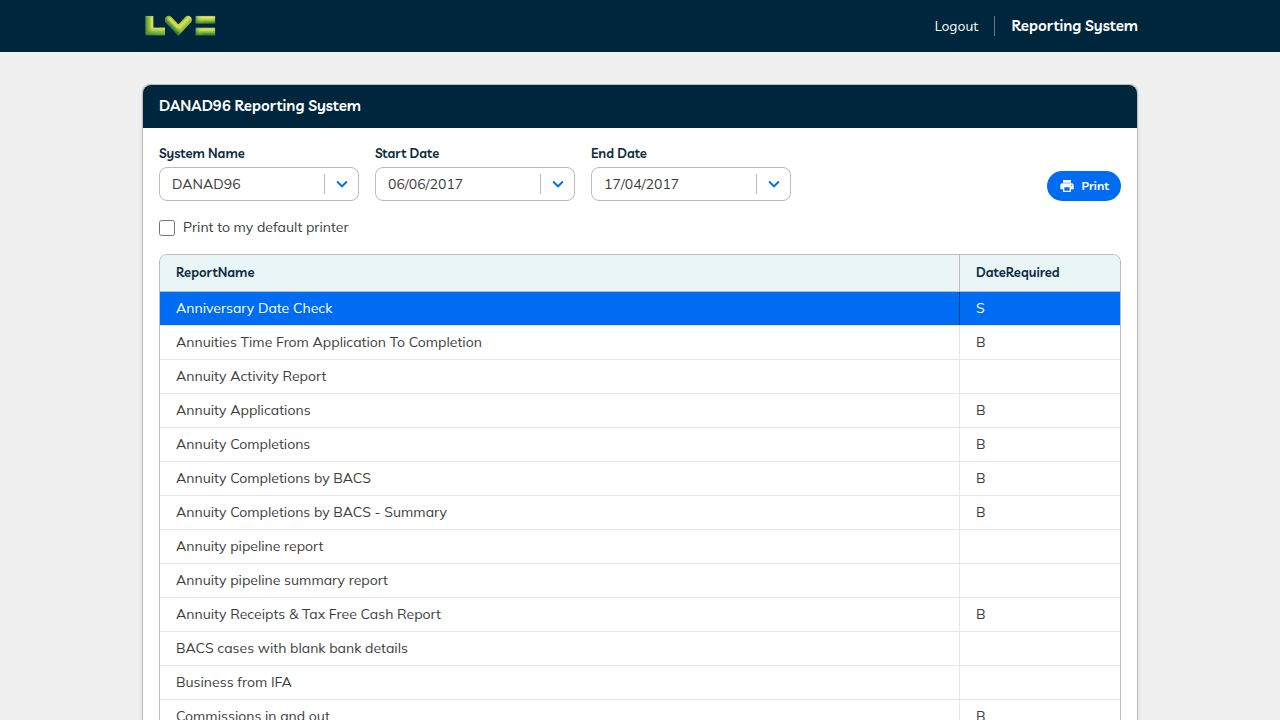
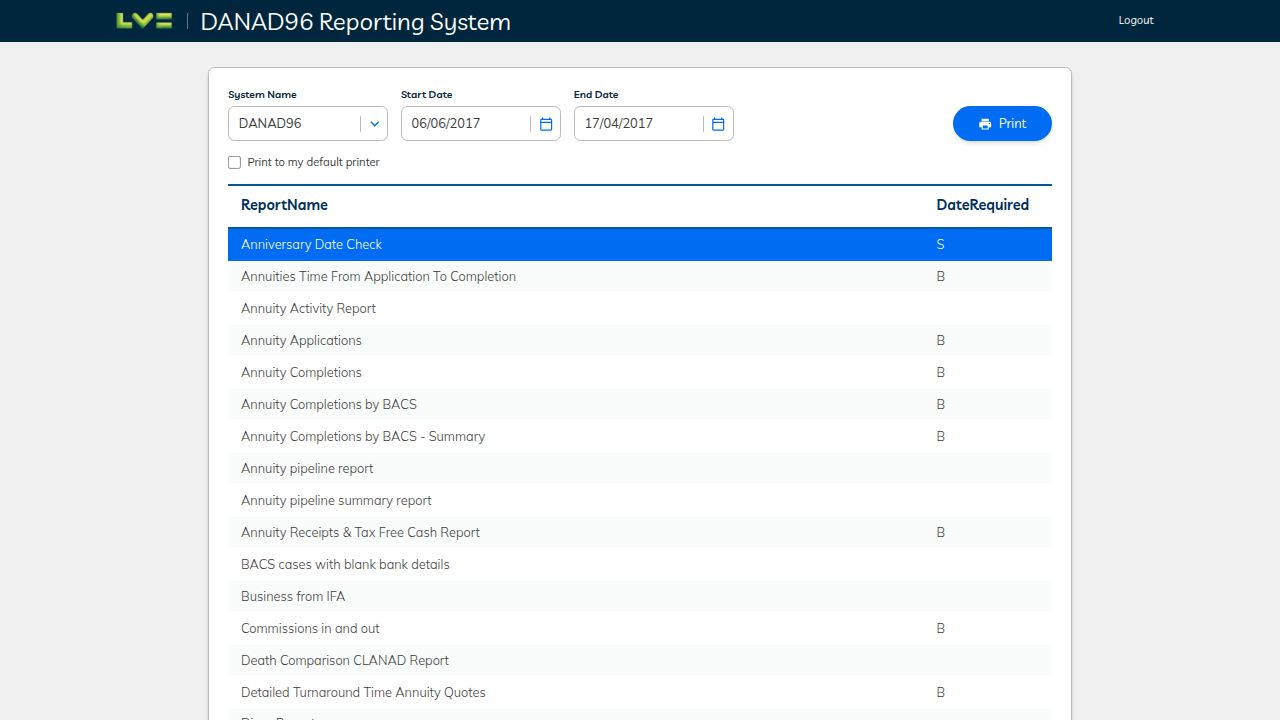
Update application styling and component appearance for a refined user interface
Apply design system updates to various components, including inputs, buttons, date pickers, and data grids, by modifying CSS classes and properties in HTML and TypeScript files.

Replit-Commit-Author: Agent
Replit-Commit-Session-Id: f0387436-f66a-4604-bd27-64f26ec7aa45
Replit-Commit-Checkpoint-Type: full_checkpoint
Replit-Commit-Event-Id: 31db62b4-92d3-4140-86e5-145b2bf0f9cd
Replit-Commit-Screenshot-Url: https://storage.googleapis.com/screenshot-production-us-central1/3a642064-7413-46f8-affc-d35cce391216/f0387436-f66a-4604-bd27-64f26ec7aa45/j02tHHh
Replit-Helium-Checkpoint-Created: true

diff --git a/artifacts/lv-reporting/src/components/DatePicker.tsx b/artifacts/lv-reporting/src/components/DatePicker.tsx
@@ -12,7 +12,7 @@ import {
   isSameDay,
   isSameMonth,
 } from "date-fns";
-import { MdKeyboardArrowDown, MdChevronLeft, MdChevronRight } from "react-icons/md";
+import { MdOutlineCalendarToday, MdChevronLeft, MdChevronRight } from "react-icons/md";
 
 interface DatePickerProps {
   value: string;
@@ -72,51 +72,51 @@ export default function DatePicker({ value, placeholder, disabled, onChange }: D
         onClick={() => !disabled && setOpen((o) => !o)}
         className={`lve-input pr-12 text-left flex items-center ${
           disabled ? "opacity-50 cursor-not-allowed" : "cursor-pointer"
-        }`}
+        } ${open && !disabled ? "border-[2px] border-[#178830]" : ""}`}
       >
-        <span className={`truncate ${value ? "text-[#3d3d3d]" : "text-[#9a9a9a]"}`}>
+        <span className={`truncate ${value ? "text-[#3d3d3d]" : "text-[#BBBBBB]"}`}>
           {value || placeholder || ""}
         </span>
         <span className="pointer-events-none absolute right-0 top-0 h-full flex items-center">
           <span className="h-[20px] w-px bg-[#BBBBBB]" />
-          <MdKeyboardArrowDown size={22} className="text-[#006cf4] mx-1.5" />
+          <MdOutlineCalendarToday size={18} className="text-[#006cf4] mx-2.5" />
         </span>
       </button>
 
       {open && !disabled && (
-        <div className="absolute left-0 top-full mt-1 z-30 w-[260px] bg-white border border-[#BBBBBB] rounded-[8px] shadow-lg p-3">
-          <div className="flex items-center justify-between mb-2">
+        <div className="absolute left-0 top-full mt-1 z-30 w-[280px] bg-white border-[2px] border-[#178830] rounded-[12px] overflow-hidden shadow-lg">
+          <div className="flex items-center justify-between px-3 py-2">
             <button
               type="button"
               onClick={() => setViewMonth((m) => addMonths(m, -1))}
-              className="w-7 h-7 flex items-center justify-center rounded-full hover:bg-[#eaf5f8] text-[#006cf4] cursor-pointer"
+              className="w-7 h-7 flex items-center justify-center rounded-full text-[#005a9c] hover:text-[#003578] cursor-pointer"
             >
               <MdChevronLeft size={20} />
             </button>
-            <span className="font-['Livvic'] font-semibold text-[14px] text-[#0d2c41]">
+            <span className="font-['Livvic'] font-bold text-[16px] text-[#005a9c]">
               {format(viewMonth, "MMMM yyyy")}
             </span>
             <button
               type="button"
               onClick={() => setViewMonth((m) => addMonths(m, 1))}
-              className="w-7 h-7 flex items-center justify-center rounded-full hover:bg-[#eaf5f8] text-[#006cf4] cursor-pointer"
+              className="w-7 h-7 flex items-center justify-center rounded-full text-[#005a9c] hover:text-[#003578] cursor-pointer"
             >
               <MdChevronRight size={20} />
             </button>
           </div>
 
-          <div className="grid grid-cols-7 gap-y-1 mb-1">
+          <div className="grid grid-cols-7 bg-[#eef4f8]">
             {WEEKDAYS.map((d) => (
               <div
                 key={d}
-                className="text-center font-['Livvic'] font-semibold text-[11px] text-[#0d2c41]"
+                className="text-center font-['Livvic'] font-semibold text-[12px] text-[#002f5c] py-1.5"
               >
                 {d}
               </div>
             ))}
           </div>
 
-          <div className="grid grid-cols-7 gap-y-1">
+          <div className="grid grid-cols-7 gap-y-1 p-2">
             {days.map((d) => {
               const isSelected = selected && isSameDay(d, selected);
               const isToday = isSameDay(d, today);
@@ -129,10 +129,15 @@ export default function DatePicker({ value, placeholder, disabled, onChange }: D
                     onChange(d);
                     setOpen(false);
                   }}
-                  className={`mx-auto w-8 h-8 flex items-center justify-center text-[13px] font-['Mulish'] cursor-pointer rounded-full
-                    ${isSelected ? "bg-[#006cf4] text-white" : isToday ? "border border-[#006cf4]" : "hover:bg-[#eaf5f8]"}
-                    ${!inMonth && !isSelected ? "text-[#bbbbbb]" : "text-[#3d3d3d]"}
-                    ${isSelected ? "text-white" : ""}
+                  className={`mx-auto w-9 h-9 flex items-center justify-center text-[14px] font-['Mulish'] cursor-pointer rounded-full
+                    ${
+                      isSelected
+                        ? "bg-[#006cf4] text-white hover:bg-[#003578]"
+                        : isToday
+                          ? "text-[#006cf4] font-semibold hover:bg-[#003578] hover:text-white"
+                          : "text-[#3d3d3d] hover:bg-[#003578] hover:text-white"
+                    }
+                    ${!inMonth && !isSelected ? "lve-hatch opacity-50" : ""}
                   `}
                 >
                   {d.getDate()}

diff --git a/artifacts/lv-reporting/src/components/ReportingSystemPanel.tsx b/artifacts/lv-reporting/src/components/ReportingSystemPanel.tsx
@@ -80,9 +80,9 @@ export default function ReportingSystemPanel({
           <button
             type="button"
             onClick={() => setShowPrintError(true)}
-            className="lve-btn lve-btn-sm ml-auto"
+            className="lve-btn ml-auto"
           >
-            <MdPrint size={16} />
+            <MdPrint size={18} />
             Print
           </button>
         </div>
@@ -99,32 +99,26 @@ export default function ReportingSystemPanel({
         </label>
 
         {/* [B3] Reports table */}
-        <div className="border border-[#BBBBBB] rounded-[8px] overflow-hidden flex flex-col min-h-[340px]">
-          <div className="grid grid-cols-[1fr_160px] bg-[#eaf5f8] font-['Livvic'] font-semibold text-[13px] text-[#0d2c41] border-b border-[#BBBBBB]">
-            <div className="px-4 py-2 border-r border-[#BBBBBB]">ReportName</div>
-            <div className="px-4 py-2">DateRequired</div>
+        <div className="border-y-[3px] border-[#04589b] flex flex-col min-h-[340px]">
+          <div className="grid grid-cols-[1fr_160px] font-['Livvic'] font-semibold text-[18px] text-[#002f5c] border-b-[3px] border-[#04589b]">
+            <div className="px-4 py-3">ReportName</div>
+            <div className="px-4 py-3">DateRequired</div>
           </div>
-          <div className="overflow-auto font-['Mulish'] text-[14px] text-[#3d3d3d]">
+          <div className="overflow-auto lve-scroll font-['Mulish'] font-light text-[16px] text-[#3d3d3d]">
             {reports.map((report, idx) => {
               const isSelected = idx === selectedRow;
               return (
                 <div
                   key={`${report.name}-${idx}`}
                   onClick={() => setSelectedRow(idx)}
-                  className={`grid grid-cols-[1fr_160px] cursor-pointer border-b border-[#e3e6ea] ${
+                  className={`grid grid-cols-[1fr_160px] cursor-pointer ${
                     isSelected
                       ? "bg-[#006cf4] text-white"
-                      : "hover:bg-[#eaf5f8]"
+                      : `${idx % 2 === 1 ? "bg-[#e7ebec34]" : ""} hover:bg-[#05579B] hover:text-white`
                   }`}
                 >
-                  <div
-                    className={`px-4 py-1.5 border-r ${
-                      isSelected ? "border-[#003578]" : "border-[#e3e6ea]"
-                    }`}
-                  >
-                    {report.name}
-                  </div>
-                  <div className="px-4 py-1.5">{report.dateRequired}</div>
+                  <div className="px-4 py-2">{report.name}</div>
+                  <div className="px-4 py-2">{report.dateRequired}</div>
                 </div>
               );
             })}
@@ -142,7 +136,7 @@ export default function ReportingSystemPanel({
           <button
             type="button"
             disabled
-            className="lve-btn lve-btn-secondary lve-btn-sm opacity-40 cursor-not-allowed"
+            className="lve-btn lve-btn-secondary"
           >
             <MdSearch size={16} />
             Find
@@ -176,7 +170,7 @@ export default function ReportingSystemPanel({
               <button
                 type="button"
                 onClick={() => setShowPrintError(false)}
-                className="lve-btn lve-btn-sm min-w-[100px] justify-center self-end"
+                className="lve-btn min-w-[100px] justify-center self-end"
               >
                 <MdCheck size={16} />
                 OK
@@ -212,7 +206,7 @@ export default function ReportingSystemPanel({
               <button
                 type="button"
                 onClick={() => setWarning({ open: false, name: "" })}
-                className="lve-btn lve-btn-sm min-w-[100px] justify-center self-end"
+                className="lve-btn min-w-[100px] justify-center self-end"
               >
                 <MdCheck size={16} />
                 OK

diff --git a/artifacts/lv-reporting/src/index.css b/artifacts/lv-reporting/src/index.css
@@ -13,12 +13,18 @@
   --color-lve-tab-inactive: #eaf5f8;
   --color-lve-page-bg: #f0f0f0;
   --color-lve-border: #bbbbbb;
+  --color-lve-disabled-bg: #cccccc;
+  --color-lve-disabled-border: #acacac;
+  --color-lve-disabled: #979797;
   --color-lve-row-divider: #e3e6ea;
+  --color-lve-row-alt: #e7ebec34;
   --color-lve-label: #0d2c41;
   --color-lve-body: #3d3d3d;
 
   --font-livvic: "Livvic", sans-serif;
   --font-mulish: "Mulish", sans-serif;
+
+  --radius: 30px;
 }
 
 @layer base {
@@ -27,6 +33,36 @@
     margin: 0;
     zoom: 0.8;
   }
+}
+
+/* Diagonal hatch for outside-month calendar days */
+.lve-hatch {
+  background-image: repeating-linear-gradient(
+    45deg,
+    transparent,
+    transparent 5px,
+    #e7ebec 5px,
+    #e7ebec 10px
+  );
+}
+
+/* Custom scrollbar (dropdowns) */
+.lve-scroll {
+  scrollbar-width: thin;
+  scrollbar-color: #62bda8 transparent;
+}
+.lve-scroll::-webkit-scrollbar {
+  width: 6px;
+}
+.lve-scroll::-webkit-scrollbar-track {
+  background: transparent;
+}
+.lve-scroll::-webkit-scrollbar-thumb {
+  background: #62bda8;
+  border-radius: 3px;
+}
+.lve-scroll::-webkit-scrollbar-thumb:hover {
+  background: #4ea896;
 }
 
 @layer components {
@@ -39,35 +75,45 @@
   }
 
   .lve-panel-body {
-    @apply px-4 py-4;
+    @apply px-6 py-6;
   }
 
+  /* Input — h-44, rounded-8, Mulish 16/26, green focus & hover */
   .lve-input {
-    @apply h-[34px] border border-[#BBBBBB] rounded-[8px] px-3 font-["Mulish"] text-[14px] text-[#3d3d3d] bg-white w-full;
+    @apply h-[44px] border border-[#BBBBBB] rounded-[8px] px-[12px] py-[8px] font-["Mulish"] text-[16px] leading-[26px] text-[#3d3d3d] bg-white w-full;
+  }
+  .lve-input::placeholder {
+    @apply text-[#BBBBBB];
+  }
+  .lve-input:hover:not(:disabled) {
+    @apply border-[#178830];
   }
   .lve-input:focus {
-    @apply outline-none border-[#178830];
+    @apply outline-none border-[#178830] border-[3px] px-[10px] py-[6px];
+  }
+  .lve-input:disabled {
+    @apply bg-[#CCCCCC] border-[#ACACAC] border-[2px] text-[#3d3d3d] cursor-not-allowed;
   }
 
   .lve-label {
     @apply font-["Livvic"] font-semibold text-[13px] text-[#0d2c41] mb-1 block;
   }
 
+  /* Button — pill h-44, primary blue */
   .lve-btn {
-    @apply inline-flex items-center gap-1.5 px-4 h-[34px] bg-[#006cf4] text-white rounded-[30px] font-["Livvic"] font-semibold text-[13px] transition-colors cursor-pointer border-0;
+    @apply inline-flex items-center justify-center gap-2 h-[44px] px-8 py-2 bg-[#006cf4] text-white rounded-[30px] font-["Livvic"] text-base font-normal shadow-md transition-colors cursor-pointer border-0;
   }
   .lve-btn:hover {
     @apply bg-[#003578];
   }
+  .lve-btn:disabled {
+    @apply bg-[#979797] text-white cursor-not-allowed;
+  }
 
   .lve-btn-secondary {
-    @apply bg-white text-[#006cf4] border border-[#006cf4];
+    @apply bg-white text-[#04589b] border border-[#04589b] font-bold shadow-none;
   }
   .lve-btn-secondary:hover {
-    @apply bg-[#eaf5f8];
-  }
-
-  .lve-btn-sm {
-    @apply h-[30px] px-3 text-[12px];
+    @apply bg-[#003578] text-white border-[#003578];
   }
 }

diff --git a/artifacts/lv-reporting/src/components/SystemNameSelect.tsx b/artifacts/lv-reporting/src/components/SystemNameSelect.tsx
@@ -1,5 +1,5 @@
 import { useEffect, useRef, useState } from "react";
-import { MdKeyboardArrowDown } from "react-icons/md";
+import { MdKeyboardArrowDown, MdCheck } from "react-icons/md";
 
 interface SystemNameSelectProps {
   value: string;
@@ -27,17 +27,22 @@ export default function SystemNameSelect({ value, options, onChange }: SystemNam
       <button
         type="button"
         onClick={() => setOpen((o) => !o)}
-        className="lve-input pr-12 text-left flex items-center cursor-pointer"
+        className={`lve-input pr-12 text-left flex items-center cursor-pointer ${
+          open ? "border-[3px] border-[#178830] border-b-0 rounded-b-none px-[10px]" : ""
+        }`}
       >
         <span className="truncate">{value}</span>
         <span className="pointer-events-none absolute right-0 top-0 h-full flex items-center">
           <span className="h-[20px] w-px bg-[#BBBBBB]" />
-          <MdKeyboardArrowDown size={22} className="text-[#006cf4] mx-1.5" />
+          <MdKeyboardArrowDown
+            size={22}
+            className={`text-[#006cf4] mx-1.5 transition-transform ${open ? "rotate-180" : ""}`}
+          />
         </span>
       </button>
 
       {open && (
-        <div className="absolute left-0 top-full mt-1 z-30 w-full max-h-[180px] overflow-auto bg-white border border-[#BBBBBB] rounded-[8px] shadow-lg font-['Mulish'] text-[14px] text-[#3d3d3d]">
+        <div className="lve-scroll absolute left-0 top-full z-30 w-full max-h-[200px] overflow-auto bg-white border-[3px] border-t-0 border-[#178830] rounded-b-[8px] shadow-lg font-['Mulish'] text-[16px] text-[#3d3d3d]">
           {options.map((opt) => {
             const isSelected = opt === value;
             return (
@@ -47,11 +52,14 @@ export default function SystemNameSelect({ value, options, onChange }: SystemNam
                   onChange(opt);
                   setOpen(false);
                 }}
-                className={`px-3 py-1.5 cursor-pointer ${
-                  isSelected ? "bg-[#006cf4] text-white" : "hover:bg-[#eaf5f8]"
+                className={`flex items-center justify-between gap-2 px-3 py-3 cursor-pointer ${
+                  isSelected
+                    ? "bg-[#05579B] text-white"
+                    : "hover:bg-[#05579B] hover:text-white"
                 }`}
               >
-                {opt}
+                <span className="truncate">{opt}</span>
+                {isSelected && <MdCheck size={18} className="shrink-0" />}
               </div>
             );
           })}

diff --git a/artifacts/lv-reporting/src/components/Footer.tsx b/artifacts/lv-reporting/src/components/Footer.tsx
@@ -2,11 +2,12 @@ import lvLogo from "@assets/image_1780040378461.png";
 
 export default function Footer() {
   return (
-    <footer className="bg-white h-[44px] px-[142px] flex items-center gap-3 mt-auto border-t border-[#e3e6ea] shrink-0">
-      <img src={lvLogo} alt="LV=" className="h-[22px] w-auto" />
-      <span className="font-['Mulish'] text-[13px] text-[#3d3d3d]">
-        County Gates, Bournemouth, BH1 2NF
-      </span>
+    <footer className="bg-white px-[142px] py-4 flex items-center justify-between mt-auto border-t border-slate-200 shrink-0">
+      <img src={lvLogo} alt="LV=" className="h-6 w-auto" />
+      <div className="text-right font-['Mulish'] text-[10px] font-medium text-slate-400 leading-tight">
+        <div>County Gates, Bournemouth</div>
+        <div>BH1 2NF</div>
+      </div>
     </footer>
   );
 }

diff --git a/artifacts/lv-reporting/src/components/Header.tsx b/artifacts/lv-reporting/src/components/Header.tsx
@@ -8,13 +8,13 @@ export default function Header({ title }: { title: string }) {
         <span className="h-[20px] w-px bg-white/40" />
         <span className="font-['Livvic'] text-[30px] font-normal">{title}</span>
       </div>
-      <a
-        href="#"
+      <button
+        type="button"
         onClick={(e) => e.preventDefault()}
-        className="font-['Livvic'] text-[14px] text-white hover:underline"
+        className="font-['Livvic'] text-[14px] text-white h-8 px-4 rounded-md hover:bg-white/10 transition-colors cursor-pointer"
       >
         Logout
-      </a>
+      </button>
     </header>
   );
 }

diff --git a/artifacts/lv-reporting/index.html b/artifacts/lv-reporting/index.html
@@ -15,7 +15,7 @@
     <link rel="icon" type="image/svg+xml" href="/favicon.svg" />
     <link rel="preconnect" href="https://fonts.googleapis.com">
     <link rel="preconnect" href="https://fonts.gstatic.com" crossorigin>
-    <link href="https://fonts.googleapis.com/css2?family=Livvic:wght@400;500;600;700&family=Mulish:wght@400;500;600;700&display=swap" rel="stylesheet">
+    <link href="https://fonts.googleapis.com/css2?family=Livvic:wght@400;500;600;700&family=Mulish:wght@300;400&display=swap" rel="stylesheet">
   </head>
   <body>
     <div id="root"></div>
